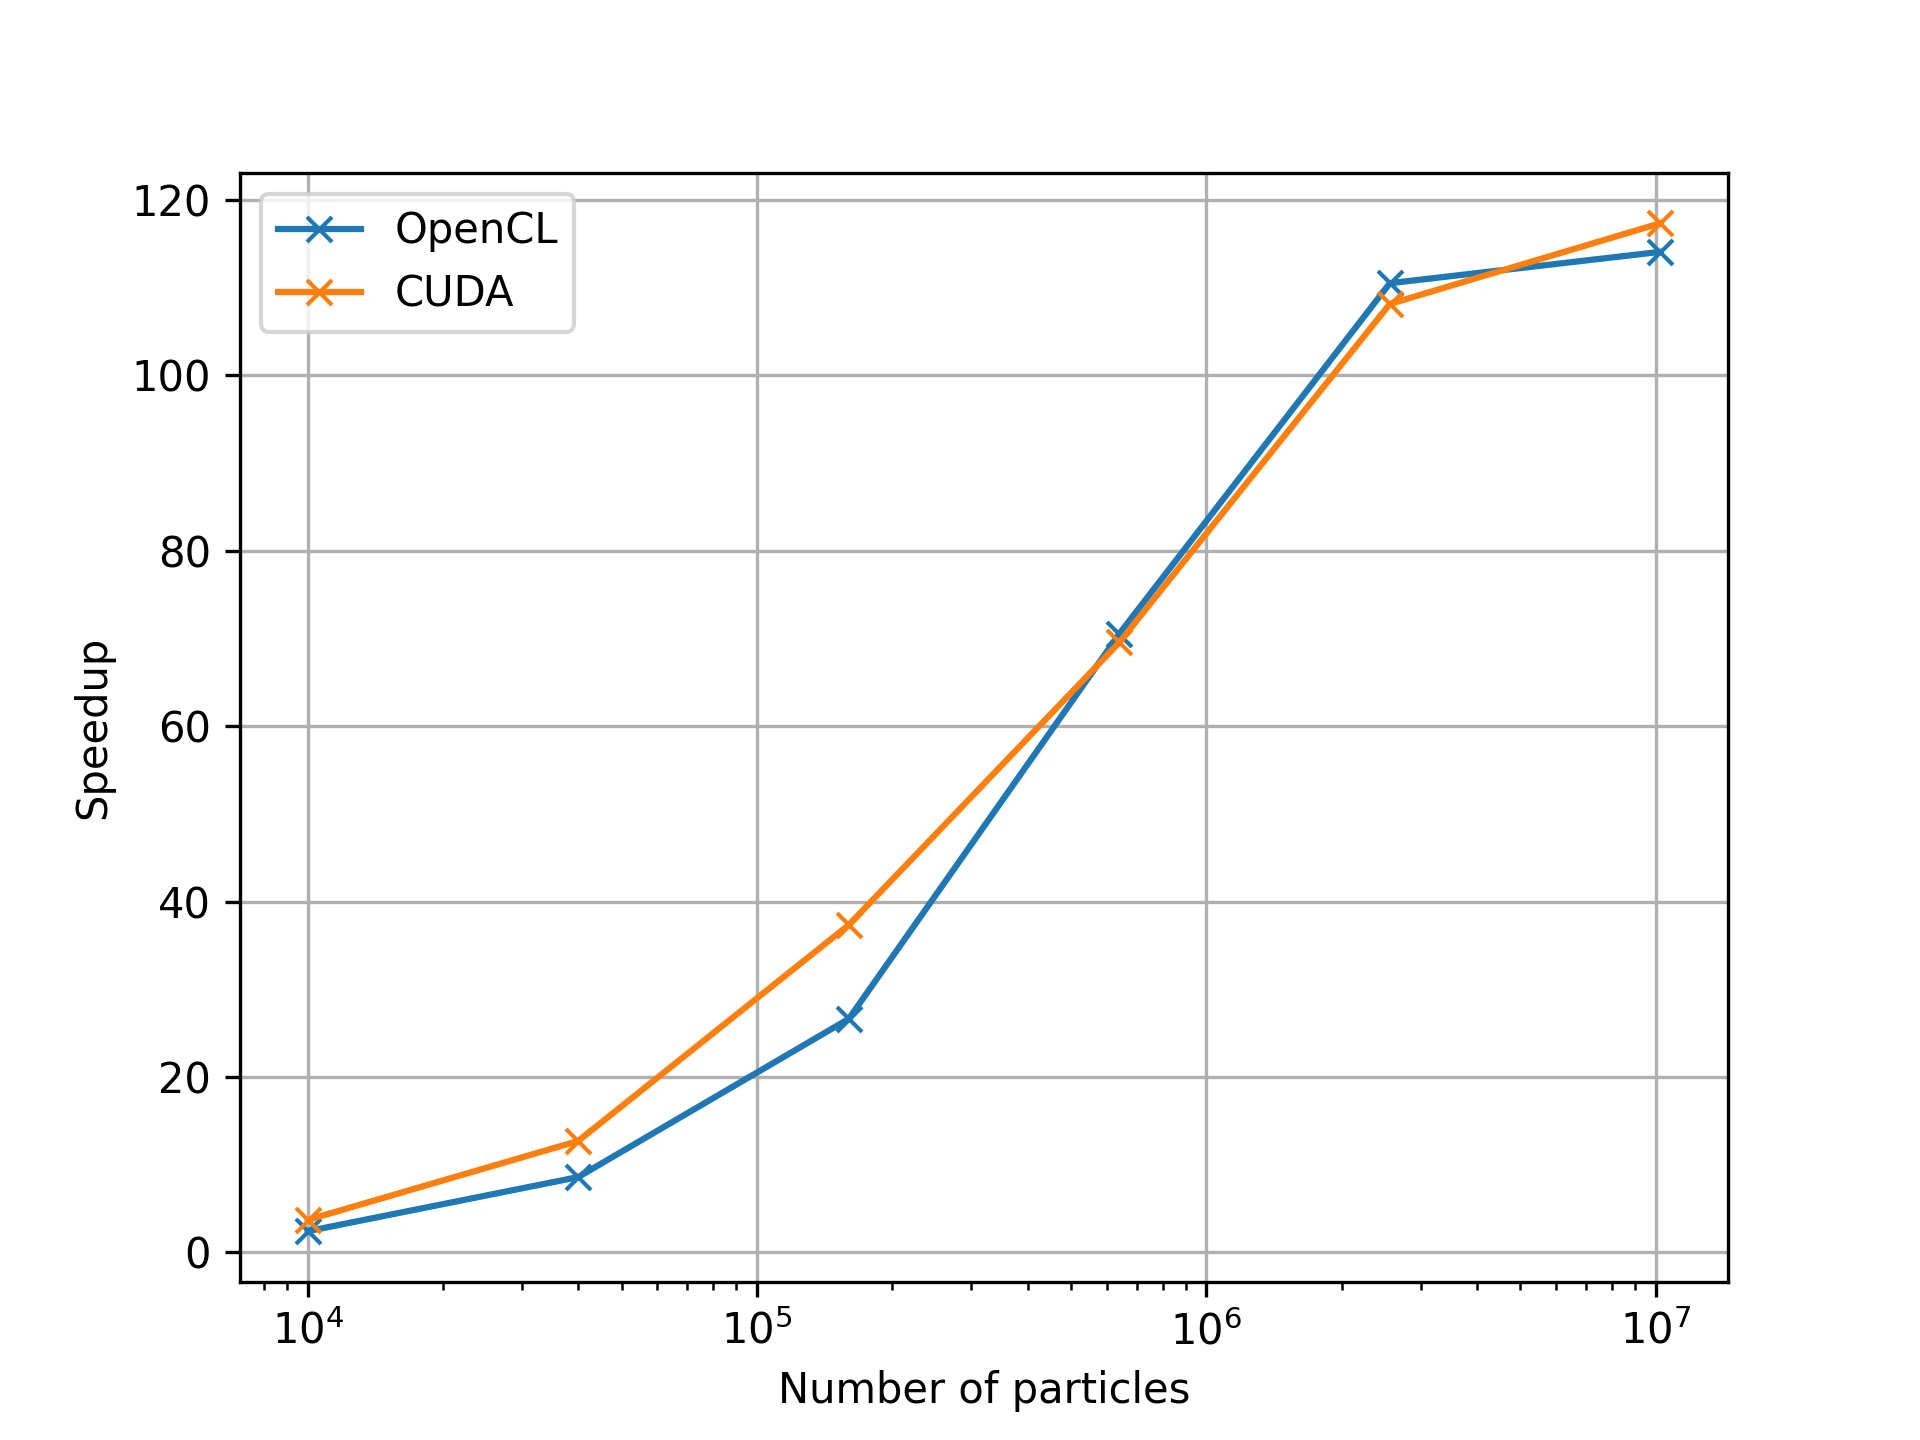
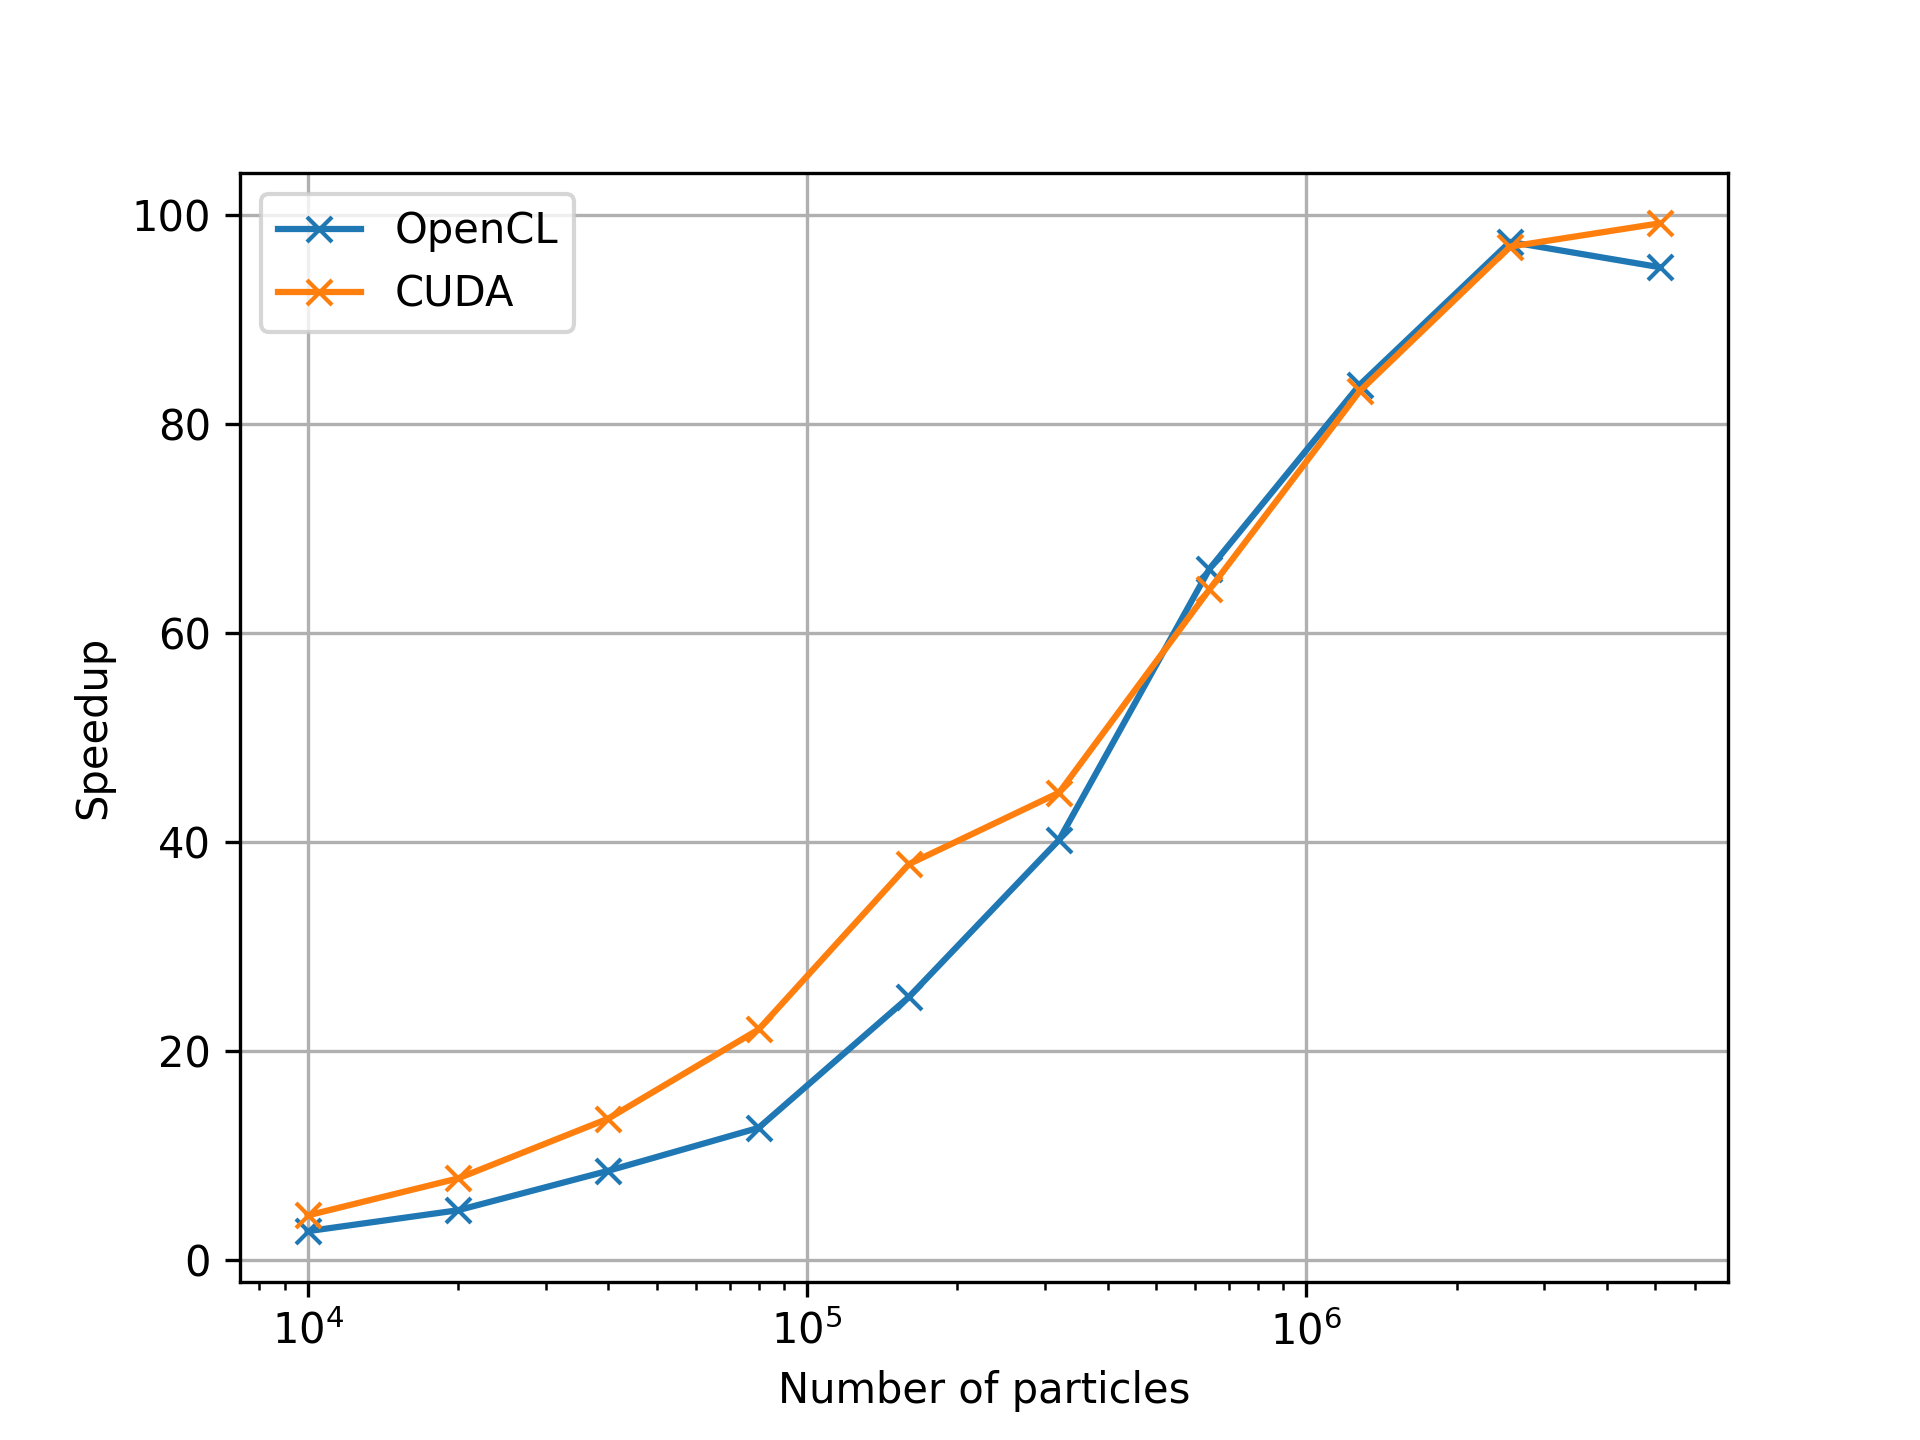
Update some results

diff --git a/papers/compyle_pr_ab/compyle.rst b/papers/compyle_pr_ab/compyle.rst
@@ -528,14 +528,16 @@ quad-core Intel Core i7 processor and an NVIDIA Tesla P100 GPU. We used
 :ref:`openmp` and :ref:`gpu` show the speedup achieved over serial execution
 using Cython by using OpenMP, OpenCL and CUDA. As you can see on the CPUs we
 get more than a 5x speedup (despite having only 4 cores). However, on the GPU
-we get over a 175x speedup. This is compared to very fast execution on a
+we get around a 200x speedup. This is compared to very fast execution on a
 single Intel Xeon 2.3GHz CPU. The fact that we can use both OpenCL and CUDA is
 also very important as on some operating systems, there is no CUDA support
 even though OpenCL is supported (like the GPUs on MacOS). Note that by default
-Compyle uses floating point precision on the GPUs as most of the cheaper GPUs
+Compyle uses floating point precision on the GPUs as most GPUs
 perform much better with floating point precision. We can use double precision
 on the GPU using ``get_config().use_double = True`` if we require it. Again,
-we do not need to change the solver to do this.
+we do not need to change the solver to do this. Our implementation is about
+2x slower when using double precision on an NVIDIA Tesla P100 GPU which is
+typically expected.
 
 This is in itself remarkable given that all we do to run on the GPU or CPU is
 to simply set the appropriate backend. In most of the compyle examples, we use
@@ -791,8 +793,8 @@ Figure :ref:`speedup-nnps` shows the speedup relative to serial code running
 using Cython for the OpenCL and CUDA backends using the NNPS algorithm and
 Figure :ref:`time-gpu` shows the time taken for these simulations. We again
 get more than a 120x speedup using the GPU over a single CPU core. Note that
-on the NVIDIA P100 GPU we are able to run a simulation with 25 timesteps for 10
-million particles in about a second, showing the excellent performance
+on the NVIDIA P100 GPU we are able to run a simulation with 25 timesteps for 5
+million particles in less than a second, showing the excellent performance
 attained.
 
 Figure :ref:`time-nnps-vs-simple` shows the time taken for simulation using
@@ -820,7 +822,7 @@ compyle repository `here
 <https://github.com/pypr/compyle/blob/master/examples/molecular_dynamics/>`__.
 All of the code, with two different NNPS implementations, and featuring a
 command line interface, comes to around 500 lines of code. This is quite
-exciting as this code be executed on either a multi-core CPU or a GPU with no
+exciting as this code can be executed on either a multi-core CPU or a GPU with no
 code changes.
 
 
